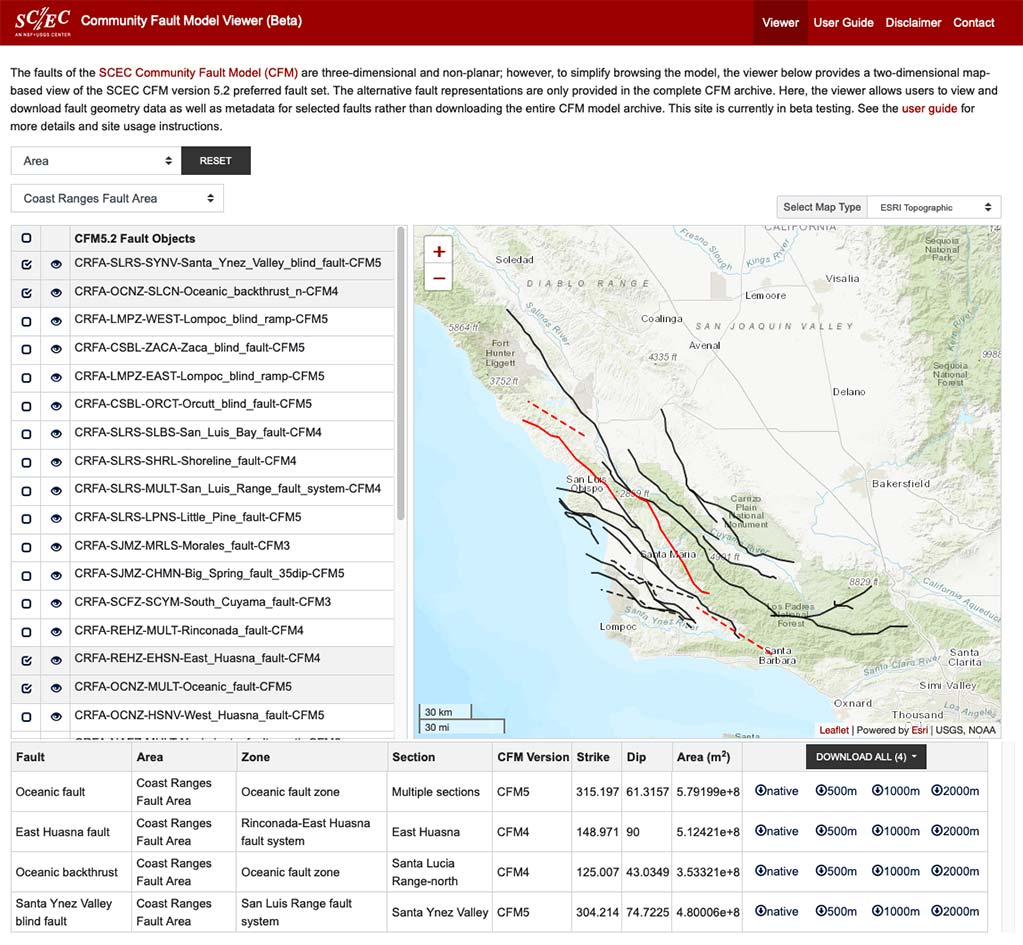
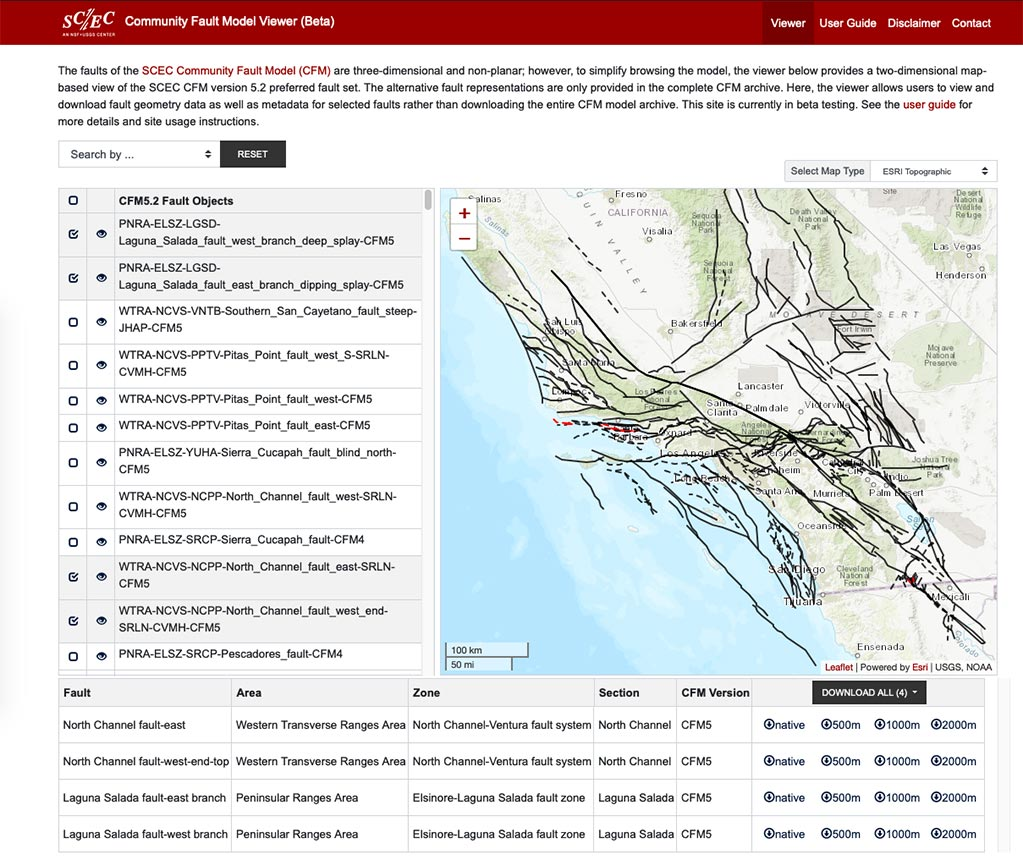
hiding strike, dip, and area from metadata table until data is fixed

diff --git a/web/js/cfm_util.js b/web/js/cfm_util.js
@@ -333,9 +333,9 @@ function getMetadataRowForDisplay(meta) {
        <td>${meta['zone']}</td>
        <td>${meta['section']}</td>
        <td>${meta['CFM_version']}</td>
-       <td>${meta['strike']}</td>
+      <!-- <td>${meta['strike']}</td>
        <td>${meta['dip']}</td>
-       <td>${area_m2}</td>
+       <td>${area_m2}</td> -->
        <td class="download-link">${downloadButtons}</td>
    </tr>
    `;

diff --git a/web/viewer.php b/web/viewer.php
@@ -369,9 +369,9 @@ $header = getHeader("Viewer");
                         <th>Zone</th>
                         <th>Section</th>
                         <th>CFM Version</th>
-                        <th>Strike</th>
-                        <th>Dip</th>
-                        <th>Area (m<sup>2</sup>) </th>
+<!--                        <th>Strike</th>-->
+<!--                        <th>Dip</th>-->
+<!--                        <th>Area (m<sup>2</sup>) </th>-->
                         <th><div class="col text-center">
                                 <div class="btn-group download-now">
                                     <button id="download-all" type="button" class="btn btn-dark dropdown-toggle" data-toggle="dropdown"
